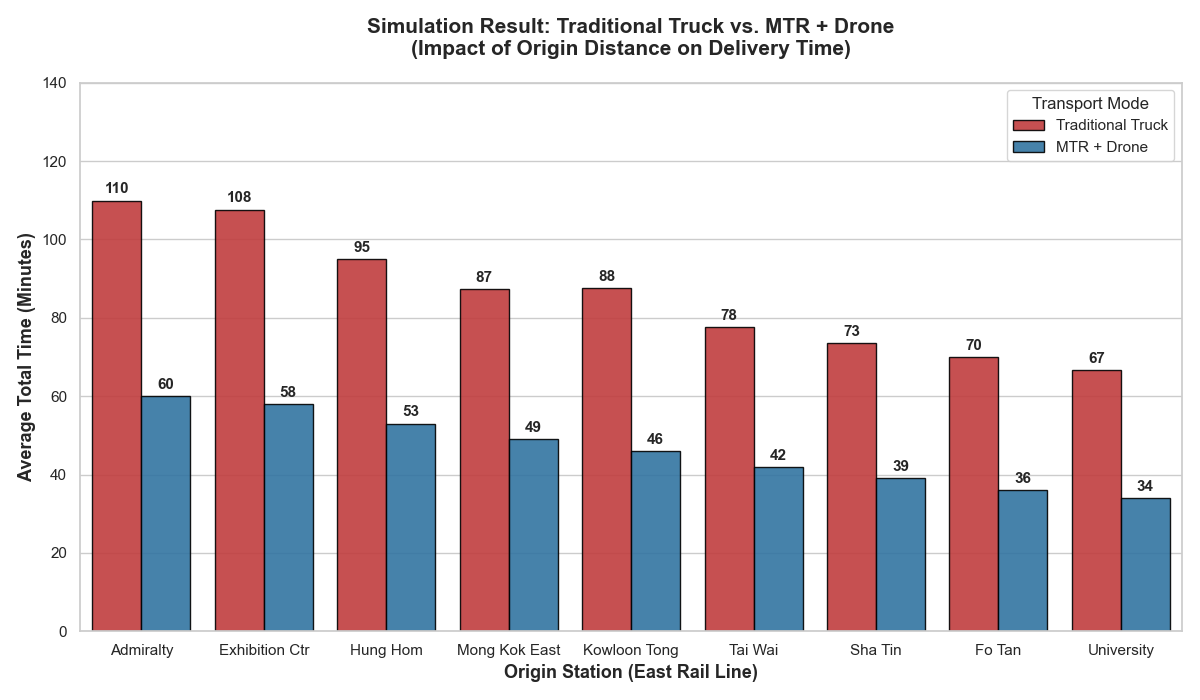
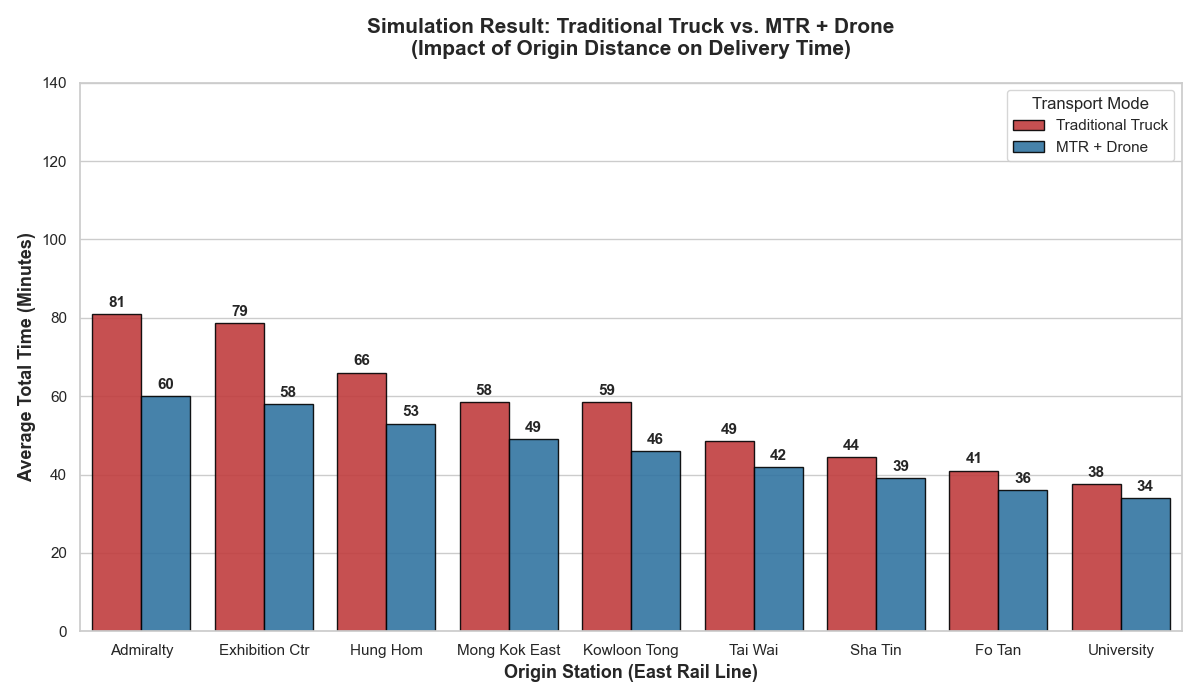
修改Simulation_data

diff --git a/FYP/src/simulation.py b/FYP/src/simulation.py
@@ -4,28 +4,29 @@ import matplotlib.pyplot as plt
 import seaborn as sns
 
 # ==========================================
-# PHASE 1: DATA CONFIGURATION
+# PHASE 1: DATA CONFIGURATION (FINAL "SPEED PK" VERSION)
 # ==========================================
 
-# 1. Define Operational Parameters (Uncertainty Ranges)
-# -----------------------------------------------------
+# 1. Define Operational Parameters
+# --------------------------------
 
-# --- MODEL A: TRADITIONAL TRUCK ---
-# Time estimates for manual operations (in Minutes)
+# --- MODEL A: TRADITIONAL TRUCK (SINGLE UNIT) ---
+# Scenario: "Direct Dispatch" - Driver picks up 1 parcel and drives immediately.
+# No waiting for full load.
 TRUCK_OPS = {
-    "loading": (15, 25),  # Loading at origin
-    "unloading": (15, 25),  # Unloading at warehouse
-    "last_mile": (10, 20),  # Final delivery to Tai Po Centre
+    "loading": (3, 8),  # Very fast: Park -> Pick -> Go
+    "unloading": (3, 8),  # Very fast: Park -> Drop
+    "last_mile": (10, 20),  # Drive to final address + walk up
 }
 
-# --- MODEL B: MTR + DRONE ---
-# Time estimates for multi-modal steps (in Minutes)
+# --- MODEL B: MTR + DRONE (SINGLE UNIT) ---
+# Inherently single-unit operation.
 MTR_OPS = {
-    "first_mile": (5, 15),  # Walking/Van to origin station
-    "wait_time": (0, 6),  # Waiting for the train (Headway)
-    "transfer": (8, 12),  # Station to Drone Pad transfer
-    "drone_load": (3, 5),  # Loading cargo into drone
-    "flight": (3, 5),  # Flight to Tai Po Centre (1.8km)
+    "first_mile": (5, 15),  # Walk/Van to station
+    "wait_time": (0, 6),  # MTR Headway
+    "transfer": (8, 12),  # Station internal transfer
+    "drone_load": (3, 5),  # Mount parcel to drone
+    "flight": (3, 5),  # Aerial transit
 }
 
 # 2. Define Station Transit Data
@@ -47,9 +48,9 @@ STATIONS_DB = {
 }
 
 # Verification Print
-print("--- Phase 1: Data Loaded Successfully ---")
+print("--- Phase 1: Data Loaded Successfully (REVISED) ---")
+print("NOTE: Truck loading/unloading times reduced to 5-10 mins for fair comparison.")
 print(f"Total Stations Loaded: {len(STATIONS_DB)}")
-print("Ready for Simulation Engine.")
 
 # ==========================================
 # PHASE 2: MONTE CARLO SIMULATION ENGINE
